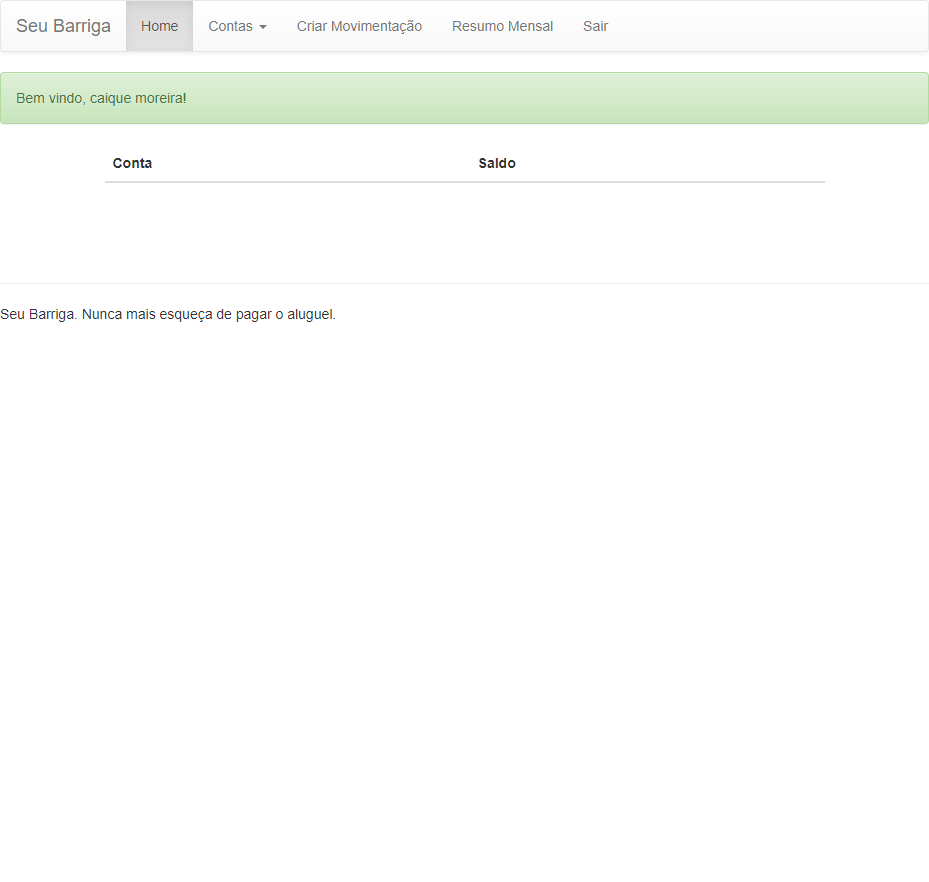
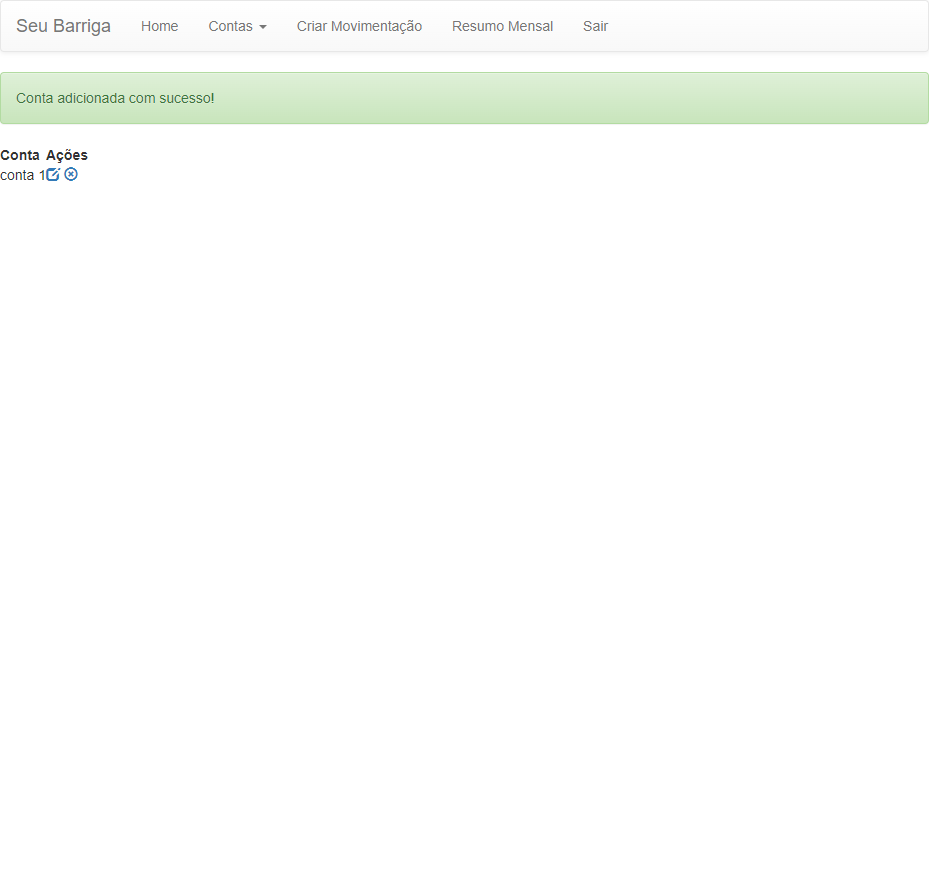
Teste: Inserir Conta

diff --git a/src/main/java/br/cmoreira/tests/ContaTest.java b/src/main/java/br/cmoreira/tests/ContaTest.java
@@ -1,13 +1,23 @@
 package br.cmoreira.tests;
 
+import org.junit.Assert;
 import org.junit.Test;
 
 import br.cmoreira.core.BaseTest;
+import br.cmoreira.pages.ContasPage;
+import br.cmoreira.pages.MenuPage;
 
 public class ContaTest extends BaseTest{
 
+	MenuPage page = new MenuPage();
+	ContasPage pageConta = new ContasPage();
+	
 	@Test
-	public void test() {
+	public void testInserirConta() {
+		page.acessarTelaInserirConta();
+		pageConta.setNome("conta 1");
+		pageConta.salvar();
+		Assert.assertEquals("Conta adicionada com sucesso!", pageConta.obterMensagemSucesso());
 		
 	}
 }

diff --git a/src/main/java/br/cmoreira/pages/ContasPage.java b/src/main/java/br/cmoreira/pages/ContasPage.java
@@ -1,0 +1,20 @@
+package br.cmoreira.pages;
+
+import org.openqa.selenium.By;
+
+import br.cmoreira.core.BasePage;
+
+public class ContasPage extends BasePage{
+	
+	public void setNome(String nome) {
+		Escrever("nome", nome);
+	}
+	
+	public void salvar() {
+		ClicarBotao(By.xpath("//button[.='Salvar']"));
+	}
+	
+	public String obterMensagemSucesso() {
+		return ObterTexto(By.xpath("//div[@class='alert alert-success']"));
+	}
+}

diff --git a/src/main/java/br/cmoreira/pages/MenuPage.java b/src/main/java/br/cmoreira/pages/MenuPage.java
@@ -1,0 +1,15 @@
+package br.cmoreira.pages;
+
+import org.openqa.selenium.By;
+
+import br.cmoreira.core.BasePage;
+import br.cmoreira.core.DriverFactory;
+
+public class MenuPage extends BasePage{
+	
+	public void acessarTelaInserirConta() {
+		ClicarLink("Contas");
+		ClicarLink("Adicionar");
+	}
+
+}

diff --git a/src/main/java/br/cmoreira/core/BasePage.java b/src/main/java/br/cmoreira/core/BasePage.java
@@ -29,6 +29,9 @@ public class BasePage {
 		getDriver().findElement(by).click();
 	}
 	
+	
+	//href="/addConta"
+	
 	public void ClicarRadioButtonNew(String name_campo) {
 		getDriver().findElement(By.name(name_campo)).click();
 	}

diff --git a/src/main/java/br/cmoreira/pages/LoginPage.java b/src/main/java/br/cmoreira/pages/LoginPage.java
@@ -1,9 +1,5 @@
 package br.cmoreira.pages;
-
-import org.junit.After;
-import org.junit.Test;
 import org.openqa.selenium.By;
-
 import br.cmoreira.core.BasePage;
 import br.cmoreira.core.DriverFactory;
 
